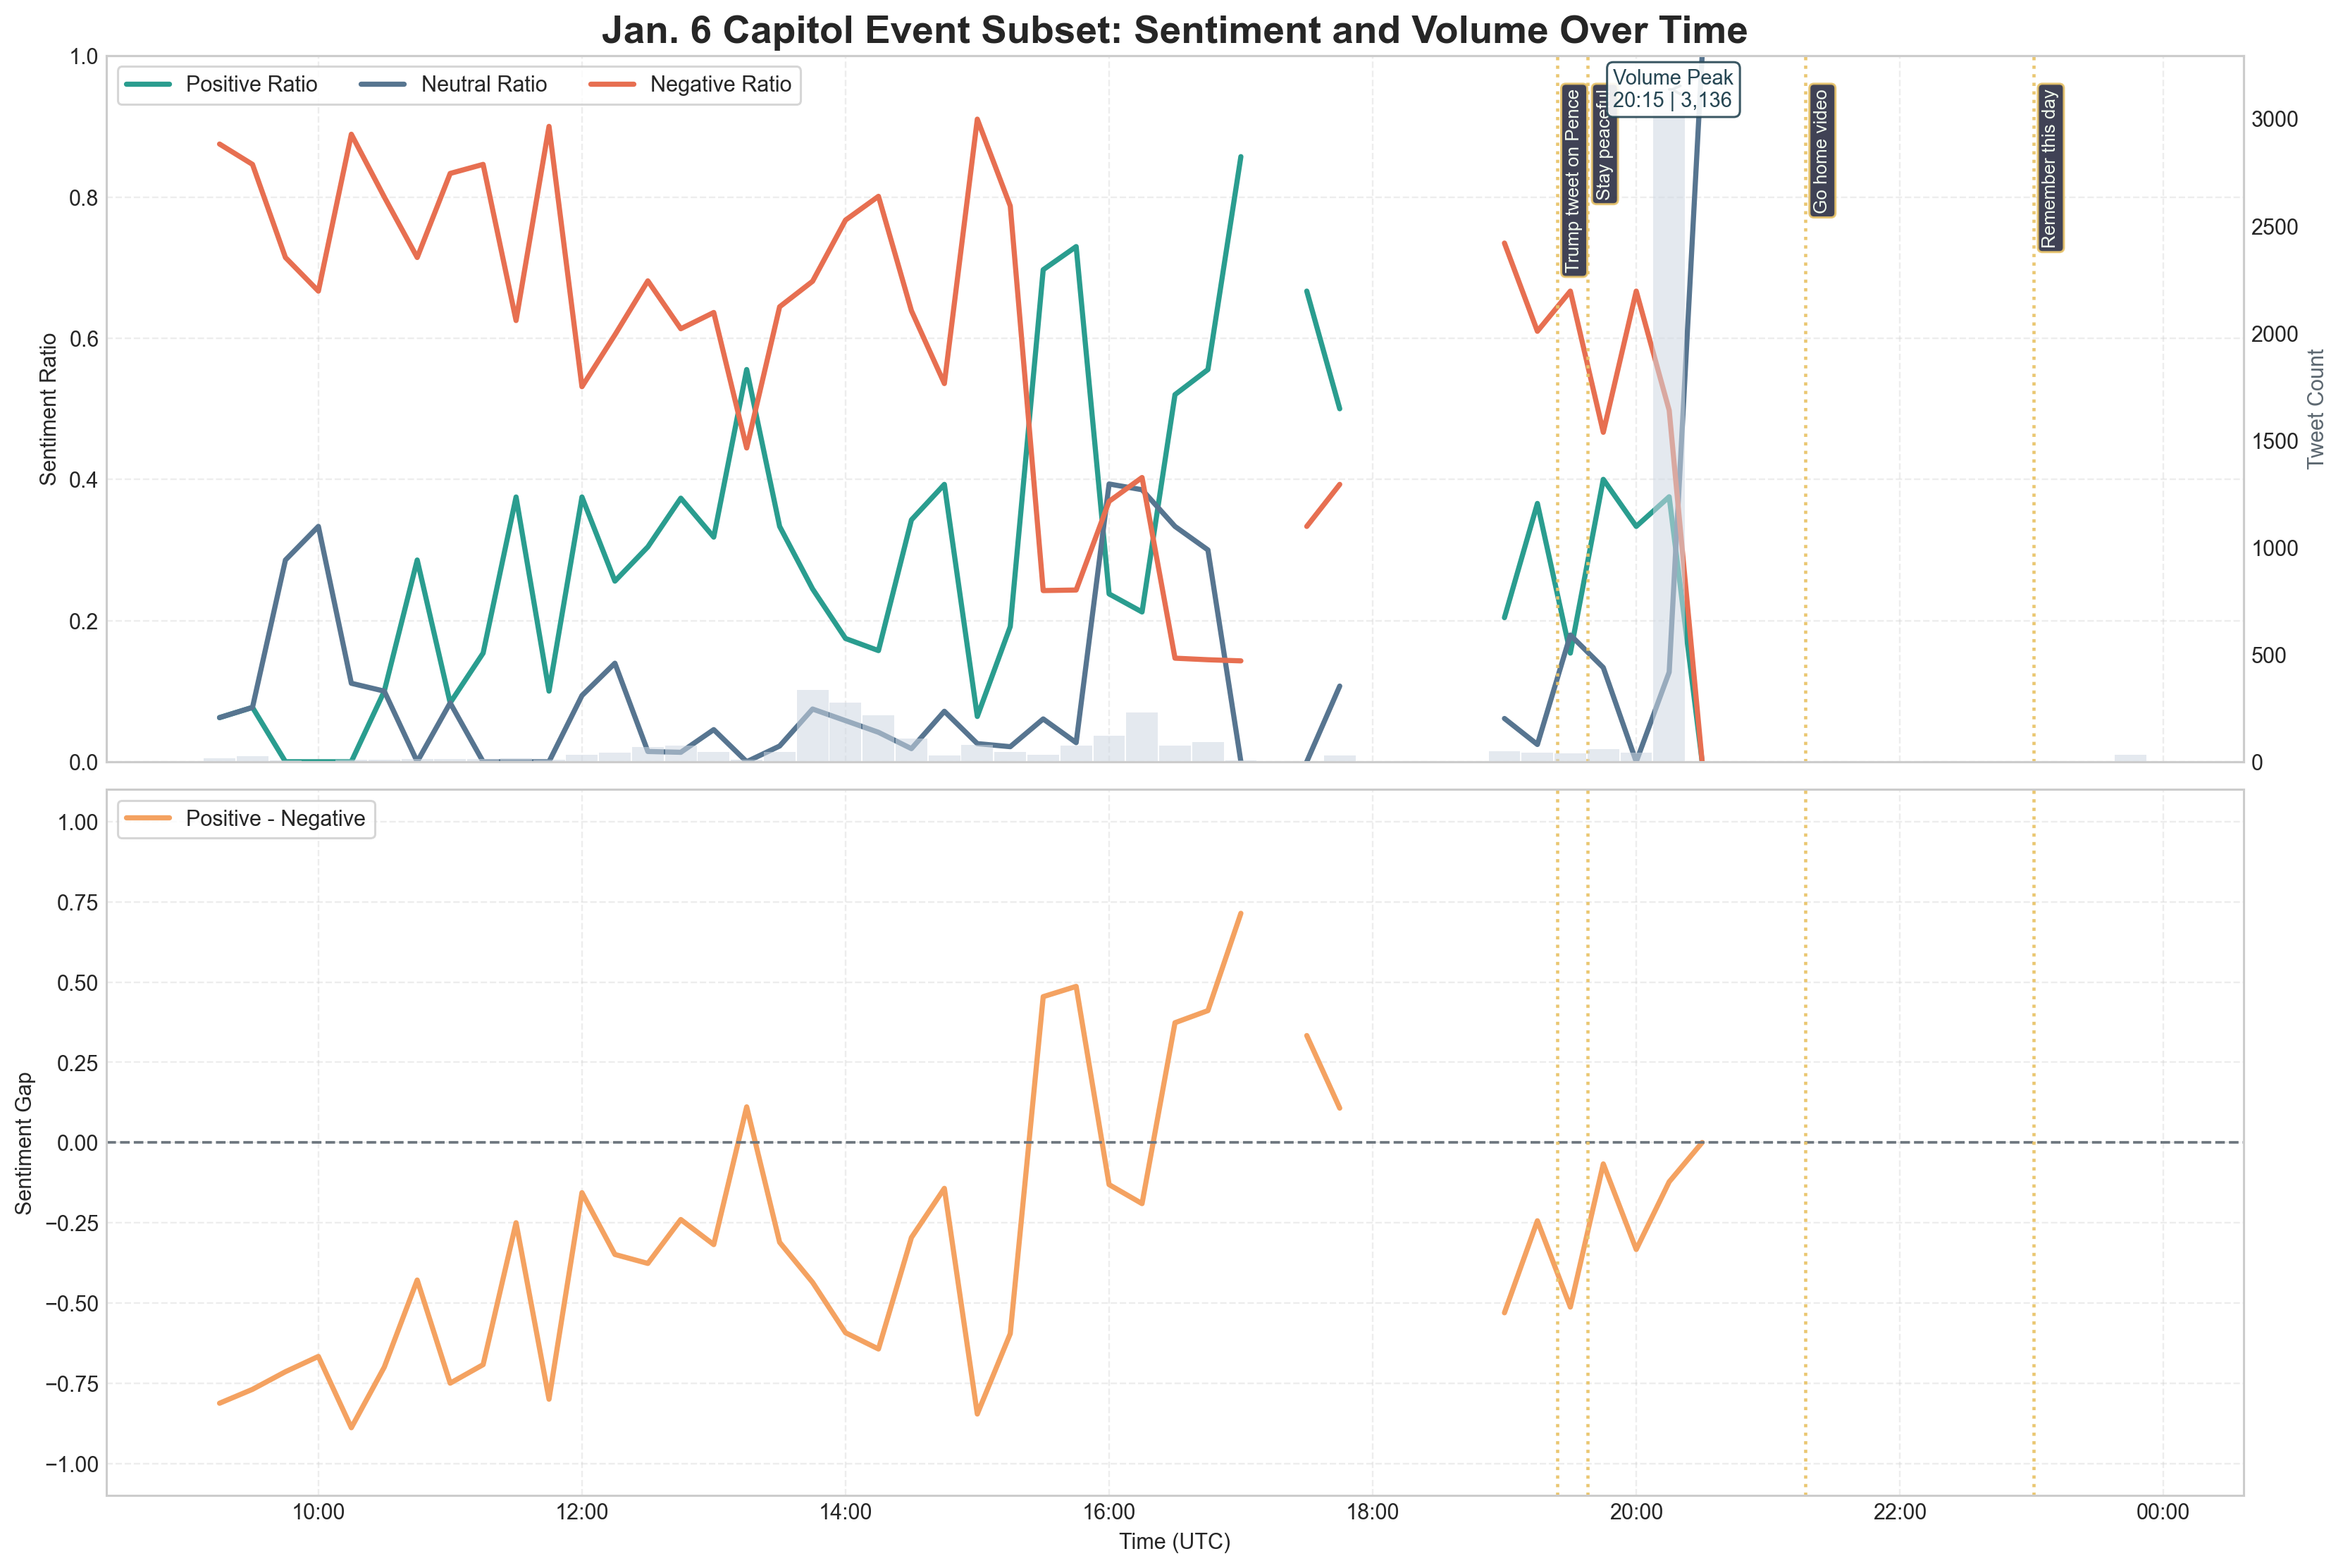
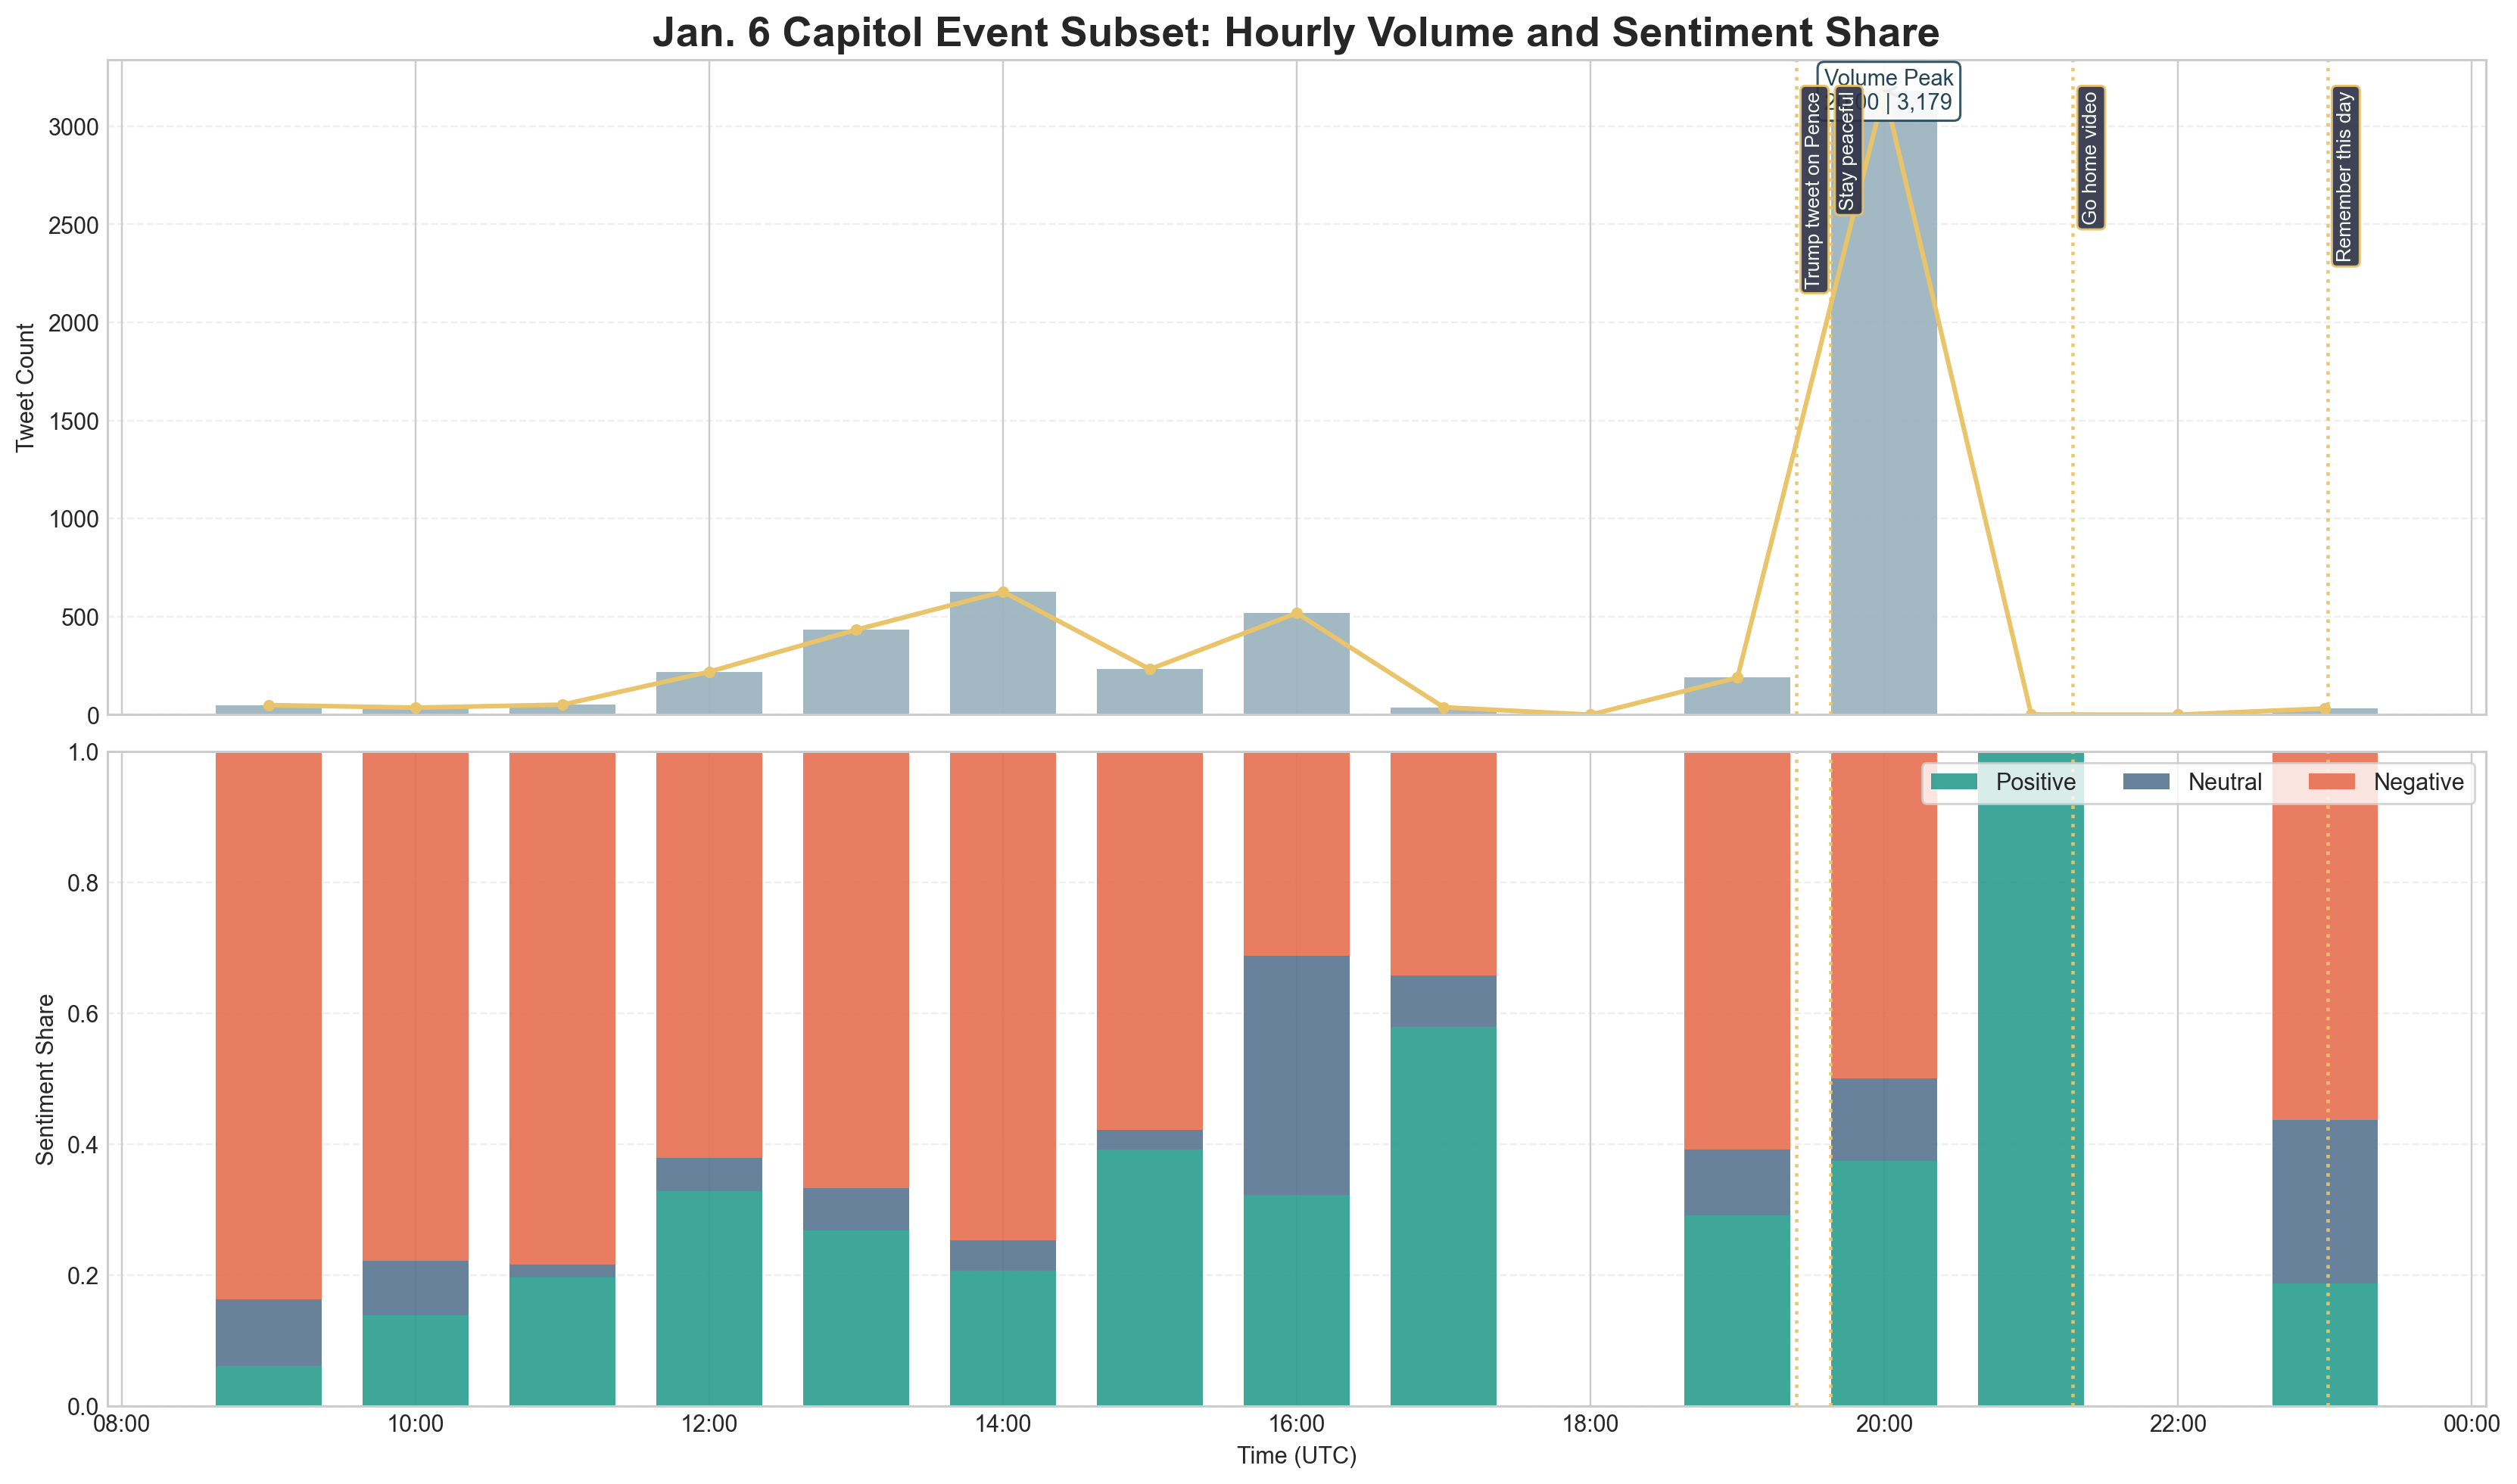
Refine slide 17 event timeline chart

diff --git a/twitter_sentiment_project/visualizer.py b/twitter_sentiment_project/visualizer.py
@@ -264,43 +264,44 @@ def plot_event_timeline(
     if full_index is not None:
         working = working.reindex(full_index)
         working["tweet_count"] = working["tweet_count"].fillna(0)
+        for sentiment in SENTIMENT_LABELS:
+            working[f"{sentiment}_ratio"] = working[f"{sentiment}_ratio"].fillna(0)
 
-    fig, (trend_ax, score_ax) = plt.subplots(2, 1, figsize=(15, 10), constrained_layout=True, sharex=True)
+    fig, (volume_ax, ratio_ax) = plt.subplots(2, 1, figsize=(15, 8.8), constrained_layout=True, sharex=True)
 
-    volume_ax = trend_ax.twinx()
-    volume_ax.bar(working.index, working["tweet_count"], width=0.01, color="#CFD8E3", alpha=0.55, label="Tweet Count")
-    volume_ax.set_ylabel("Tweet Count", color="#5C6770")
-    volume_ax.grid(False)
+    time_step_days = _infer_bar_width_days(working.index)
+    volume_ax.bar(working.index, working["tweet_count"], width=time_step_days * 0.72, color="#9DB4C0", alpha=0.95)
+    volume_ax.plot(working.index, working["tweet_count"], color="#E9C46A", linewidth=2.0, marker="o", markersize=4)
+    volume_ax.set_title(title, fontsize=18, weight="bold")
+    volume_ax.set_ylabel("Tweet Count")
+    volume_ax.grid(True, axis="y", linestyle="--", alpha=0.3)
+    _annotate_volume_peak(volume_ax, working)
 
+    cumulative_bottom = pd.Series(0.0, index=working.index)
     for sentiment in SENTIMENT_LABELS:
-        trend_ax.plot(
+        ratio_ax.bar(
             working.index,
             working[f"{sentiment}_ratio"],
+            bottom=cumulative_bottom,
+            width=time_step_days * 0.72,
             color=SENTIMENT_COLORS[sentiment],
-            linewidth=2.4,
-            label=f"{sentiment} Ratio",
+            alpha=0.9,
+            label=sentiment,
         )
+        cumulative_bottom = cumulative_bottom + working[f"{sentiment}_ratio"]
 
-    trend_ax.set_title(title, fontsize=18, weight="bold")
-    trend_ax.set_ylabel("Sentiment Ratio")
-    trend_ax.set_ylim(0, 1)
-    trend_ax.grid(True, linestyle="--", alpha=0.35)
-    trend_ax.legend(loc="upper left", frameon=True, ncol=3)
-    _annotate_volume_peak(volume_ax, working.dropna(subset=["tweet_count"]))
-
-    score_ax.plot(working.index, working["sentiment_gap"], color="#F4A261", linewidth=2.4, label="Positive - Negative")
-    score_ax.axhline(0, color="#6C757D", linestyle="--", linewidth=1.2)
-    score_ax.set_ylabel("Sentiment Gap")
-    score_ax.set_xlabel("Time (UTC)")
-    score_ax.grid(True, linestyle="--", alpha=0.35)
-    score_ax.legend(loc="upper left", frameon=True)
-    score_ax.xaxis.set_major_formatter(mdates.DateFormatter("%H:%M"))
+    ratio_ax.set_ylabel("Sentiment Share")
+    ratio_ax.set_xlabel("Time (UTC)")
+    ratio_ax.set_ylim(0, 1)
+    ratio_ax.xaxis.set_major_formatter(mdates.DateFormatter("%H:%M"))
+    ratio_ax.grid(True, axis="y", linestyle="--", alpha=0.3)
+    ratio_ax.legend(loc="upper right", frameon=True, ncol=3)
 
     if event_markers:
         for marker_time, label in event_markers:
-            for axis in (trend_ax, score_ax):
+            for axis in (volume_ax, ratio_ax):
                 axis.axvline(marker_time, color="#E9C46A", linestyle=":", linewidth=1.5, alpha=0.95)
-            trend_ax.annotate(
+            volume_ax.annotate(
                 label,
                 xy=(marker_time, 0.96),
                 xycoords=("data", "axes fraction"),
@@ -371,3 +372,11 @@ def _build_continuous_time_index(index: pd.Index) -> pd.DatetimeIndex | None:
     if step is None or pd.isna(step):
         return None
     return pd.date_range(index.min(), index.max(), freq=step)
+
+
+def _infer_bar_width_days(index: pd.Index) -> float:
+    if len(index) < 2:
+        return 1 / 24
+    deltas = pd.Series(index[1:] - index[:-1])
+    step = deltas.mode().iloc[0]
+    return step / pd.Timedelta(days=1)

diff --git a/twitter_sentiment_project/pipeline.py b/twitter_sentiment_project/pipeline.py
@@ -170,10 +170,11 @@ def run_pipeline(
         (pd.Timestamp(timestamp, tz="UTC").tz_localize(None), label)
         for timestamp, label in EVENT_MARKERS_UTC
     ]
+    event_plot_time_df = compute_time_sentiment(event_subset_df, freq="1h", min_tweets=1)
     event_timeline_figure_path = plot_event_timeline(
-        time_df=event_time_df,
+        time_df=event_plot_time_df,
         output_path=figure_dir / "capitol_event_timeline.png",
-        title="Jan. 6 Capitol Event Subset: Sentiment and Volume Over Time",
+        title="Jan. 6 Capitol Event Subset: Hourly Volume and Sentiment Share",
         event_markers=event_markers,
     )
     event_comparison_figure_path = plot_sentiment_comparison(

diff --git a/slides/final_presentation.tex b/slides/final_presentation.tex
@@ -326,7 +326,7 @@ event_timeline_figure_path = plot_event_timeline(
 \includegraphics[width=0.88\textwidth]{../outputs/figures/capitol_event_timeline.png}
 
 \vspace{0.35em}
-\tiny 圖中以虛線標示川普關鍵發文時點，峰值出現在 20:15 UTC，事件相關推文達 3,136 則。
+\tiny 圖中採每小時分箱，虛線標示川普關鍵發文時點；20:00 UTC 時段出現最大討論量，事件相關推文達 3,179 則。
 \end{frame}
 
 \begin{frame}{事件關鍵詞圖}